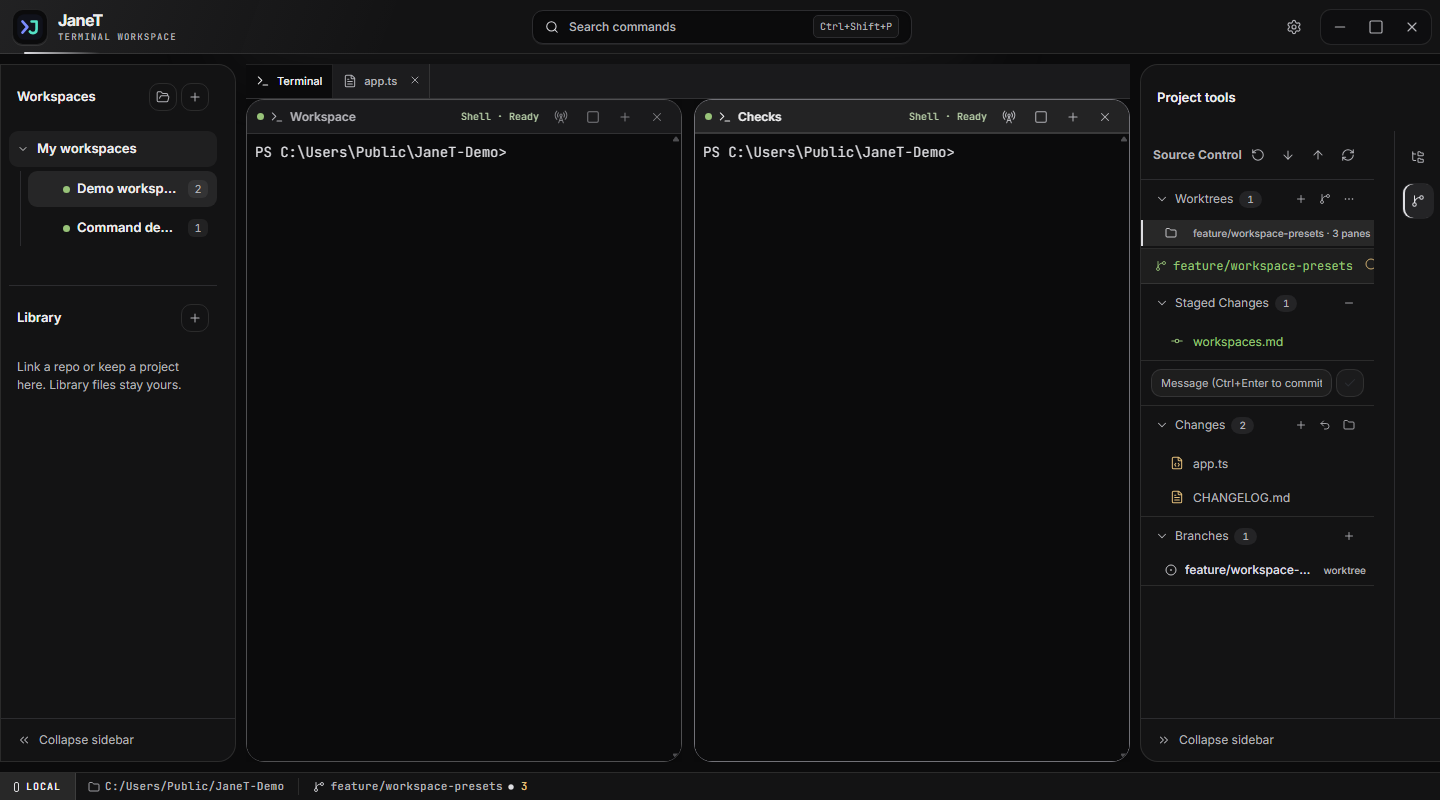
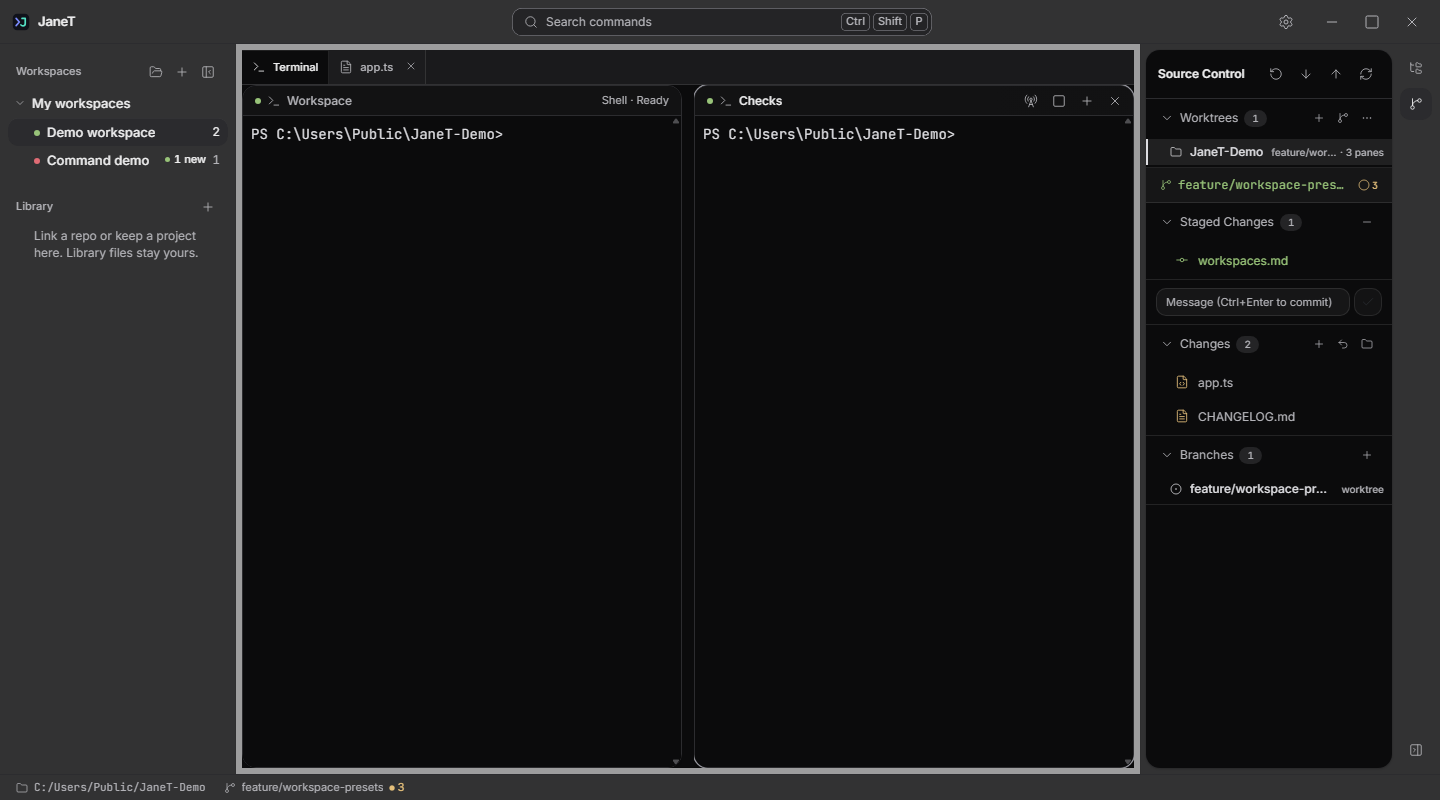
fix(source-control): keep badges visible and truncate names in narrow panel
At the default project-tools width the current-branch row clipped its
change-count badge and the worktree row collapsed the repo name to J..

- Wrap the branch name so it ellipsizes; badges and the icon never shrink.
- Split the worktree note into branch + pane count; the name keeps priority
  (capped at 70%) so sub-pixel shrinking can't ellipsize a name that fits.
- Assert badge/name bounds in pane-maximize and public-screenshots specs.
- Refresh source-control.png.

Changed region(s): [[0.0, 0.0, 1.0, 1.0], [0.4062, 0.0938, 0.75, 0.2188]]

diff --git a/tests/e2e/pane-maximize.spec.ts b/tests/e2e/pane-maximize.spec.ts
@@ -664,7 +664,8 @@ test('stages and commits changes from Source Control', async ({}, testInfo) => {
   const repoPath = fs.mkdtempSync(path.join(fs.realpathSync(os.tmpdir()), 'janet-e2e-source-control-'));
   let app: Awaited<ReturnType<typeof launchApp>> | undefined;
   try {
-    execFileSync('git', ['init', '-b', 'main'], { cwd: repoPath });
+    // A long branch name exercises truncation at the default project-tools width.
+    execFileSync('git', ['init', '-b', 'feature/source-control-layout-regression'], { cwd: repoPath });
     execFileSync('git', ['config', 'user.email', 'janet-e2e@example.com'], { cwd: repoPath });
     execFileSync('git', ['config', 'user.name', 'JaneT E2E'], { cwd: repoPath });
     fs.writeFileSync(path.join(repoPath, 'base.txt'), 'base\n', 'utf-8');
@@ -723,6 +724,21 @@ test('stages and commits changes from Source Control', async ({}, testInfo) => {
     await expect(createBranch).toHaveClass(/git-section-action/);
     await expect(createBranch.locator('xpath=ancestor::div[contains(@class,"git-section-header")]')).toContainText('Branches');
     await expect(sourceControl.getByText('Create branch…')).toHaveCount(0);
+    await expect(repo.locator('.git-pill.dirty')).toBeVisible();
+    await expect.poll(() => sourceControl.evaluate((tree) => {
+      const panel = tree.getBoundingClientRect();
+      const branch = tree.querySelector('.git-repo-branch')!;
+      const badge = tree.querySelector('.git-pill.dirty')!.getBoundingClientRect();
+      const worktreeName = tree.querySelector('.git-worktree-item.current .branch-name')!;
+      const name = worktreeName.getBoundingClientRect();
+      return {
+        branchTruncated: branch.scrollWidth > branch.clientWidth,
+        badgeInside: badge.width > 0 && badge.left >= panel.left && badge.right <= panel.right,
+        worktreeNameInside: name.right <= panel.right,
+        // The branch note gives up space before the worktree name collapses.
+        worktreeNameReadable: name.width >= Math.min(worktreeName.scrollWidth, 120),
+      };
+    })).toEqual({ branchTruncated: true, badgeInside: true, worktreeNameInside: true, worktreeNameReadable: true });
     await sourceControl.screenshot({ path: testInfo.outputPath('source-control.png') });
 
     const refreshSourceControl = sourceControl.getByRole('button', { name: 'Refresh Source Control' });

diff --git a/src/renderer/components/GitTree.tsx b/src/renderer/components/GitTree.tsx
@@ -473,7 +473,10 @@ export default function GitTree({
                 >
                   <FolderIcon size="xs" />
                   <span className="branch-name">{basename(tree.path)}</span>
-                  <span className="git-row-note">{current && status?.current ? status.current : tree.branch || 'detached'}{paneNote}</span>
+                  <span className="git-row-note git-worktree-note">
+                    <span className="git-worktree-branch">{current && status?.current ? status.current : tree.branch || 'detached'}</span>
+                    {paneNote && <span className="git-worktree-panes">{paneNote}</span>}
+                  </span>
                 </button>
               </Tooltip>
               {!current && (
@@ -488,7 +491,8 @@ export default function GitTree({
 
       <Tooltip label={repoPath} placement="right">
         <div className="git-repo-path" aria-label={`${status?.current || 'HEAD'} at ${repoPath}`}>
-          <GitBranchIcon size="xs" /> {status?.current || 'HEAD'}
+          <GitBranchIcon size="xs" />
+          <span className="git-repo-branch">{status?.current || 'HEAD'}</span>
           {status && status.files.length > 0 && <span className="git-pill dirty" aria-label={`${status.files.length} changed files`}><CircleIcon size="xs" /> {status.files.length}</span>}
           {status && status.ahead > 0 && <span className="git-pill ahead" aria-label={`${status.ahead} commits ahead`}><ArrowUpIcon size="xs" />{status.ahead}</span>}
           {status && status.behind > 0 && <span className="git-pill behind" aria-label={`${status.behind} commits behind`}><ArrowDownIcon size="xs" />{status.behind}</span>}

diff --git a/tests/e2e/public-screenshots.spec.ts b/tests/e2e/public-screenshots.spec.ts
@@ -401,6 +401,18 @@ test('recaptures the shipped public screenshot set from the real app', async () 
       await expect.poll(async () => (await terminal.locator('.xterm-rows > div').allTextContents()).join(''))
         .toContain(`PS ${fixturePath}>`);
     }
+    expect(await sourceControl.evaluate((tree) => {
+      const panel = tree.getBoundingClientRect();
+      const badge = tree.querySelector('.git-repo-path .git-pill.dirty')!.getBoundingClientRect();
+      const name = tree.querySelector('.git-worktree-item.current .branch-name')!;
+      const text = document.createRange();
+      text.selectNodeContents(name);
+      return {
+        badgeInside: badge.width > 0 && badge.left >= panel.left && badge.right <= panel.right,
+        // scrollWidth rounds away sub-pixel overflow that still triggers an ellipsis.
+        worktreeNameFits: text.getBoundingClientRect().width <= name.getBoundingClientRect().width,
+      };
+    })).toEqual({ badgeInside: true, worktreeNameFits: true });
     await capture('source-control.png', page);
 
     const bodyText = await page.locator('body').innerText();

diff --git a/src/renderer/styles/components/source-control.css b/src/renderer/styles/components/source-control.css
@@ -366,10 +366,41 @@
   .git-tree-dir svg { flex-shrink: 0; }
 
   .git-pill {
+    display: inline-flex;
+    align-items: center;
+    gap: 2px;
+    flex-shrink: 0;
     margin-left: 6px;
     color: var(--text-tertiary);
     font-size: 10px;
+    white-space: nowrap;
   }
+
+  .git-repo-path > svg { flex-shrink: 0; }
+
+  .git-repo-branch,
+  .git-worktree-branch {
+    min-width: 0;
+    overflow: hidden;
+    text-overflow: ellipsis;
+    white-space: nowrap;
+  }
+
+  /* The worktree name keeps priority up to a cap; the branch note absorbs the rest.
+     A shrinkable name would lose sub-pixel widths and ellipsize even when it fits. */
+  .git-worktree-item .branch-name {
+    flex-shrink: 0;
+    max-width: 70%;
+  }
+
+  .git-worktree-note {
+    display: flex;
+    min-width: 0;
+    flex: 0 1 auto;
+    overflow: hidden;
+  }
+
+  .git-worktree-panes { flex-shrink: 0; white-space: pre; }
 
   .git-message {
     padding: 5px 14px;
